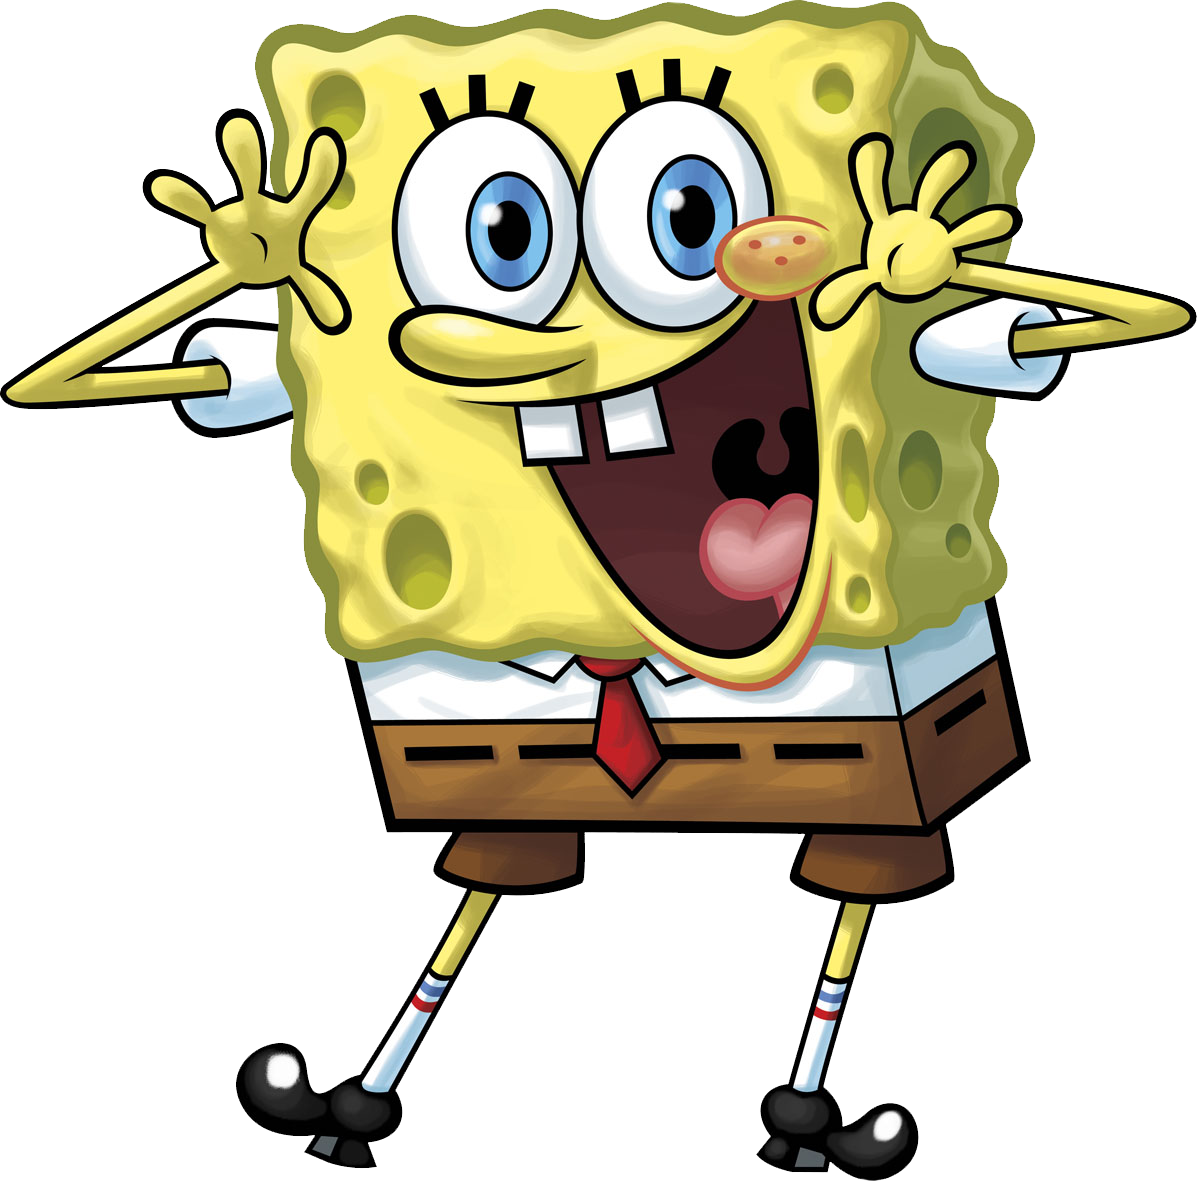
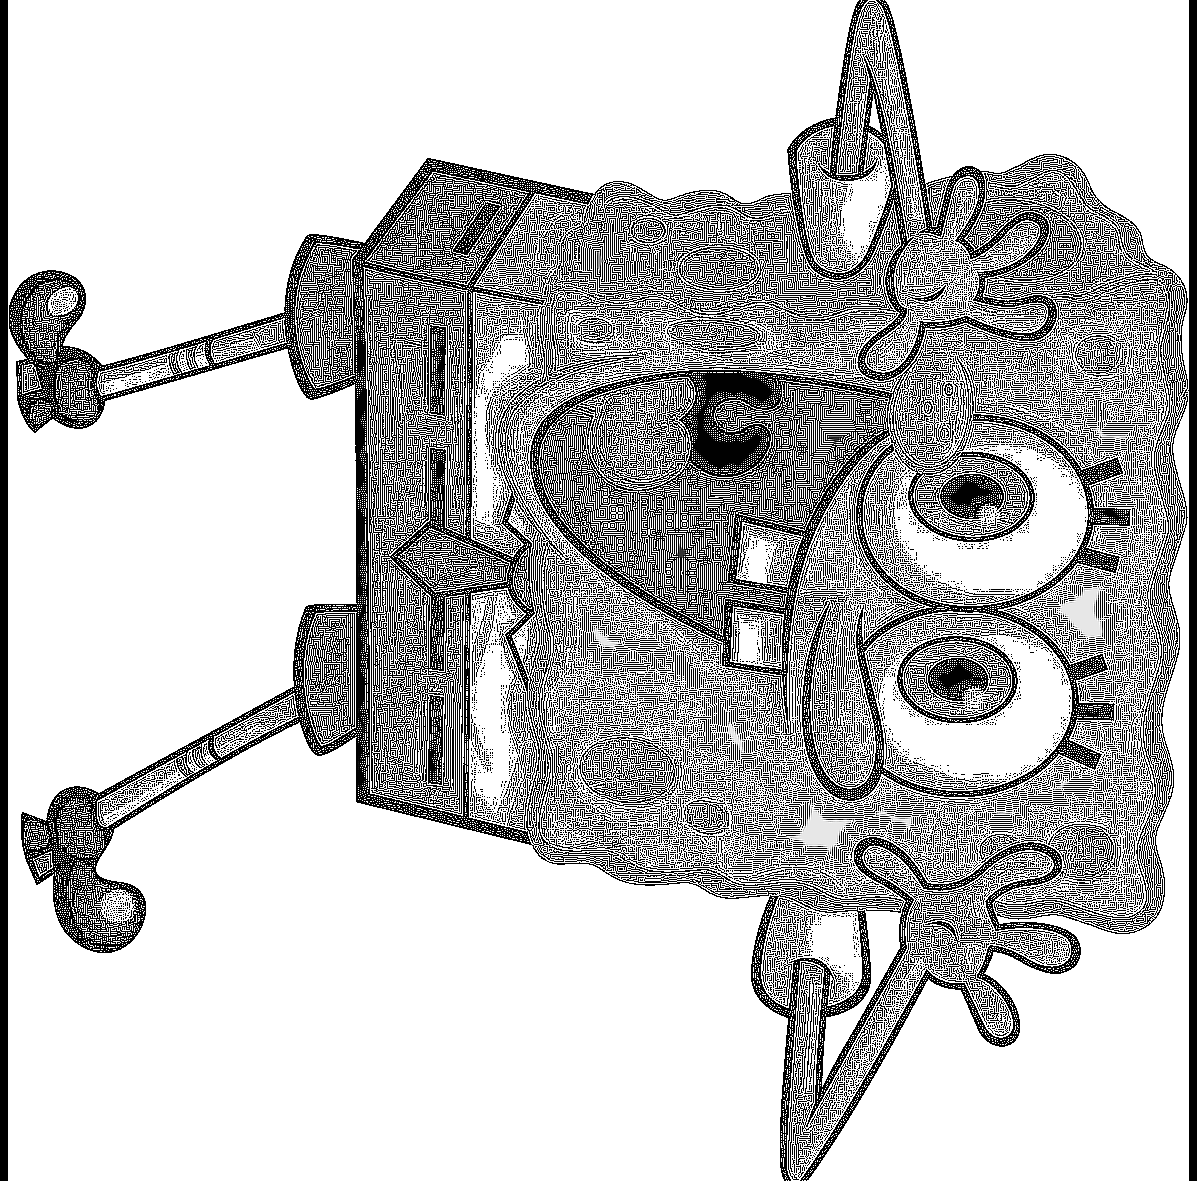
btns bw sharp

diff --git a/editor/main.py b/editor/main.py
@@ -1,12 +1,12 @@
 from PyQt5.QtCore import QEvent
-from PyQt5.QtWidgets import QApplication,QInputDialog
+from PyQt5.QtWidgets import QApplication,QInputDialog, QFileDialog
 from PyQt5.QtWidgets import QMainWindow
 from PyQt5.QtGui import QPixmap
 from ui import Ui_MainWindow
 from PIL import Image
 from PIL import ImageFilter
 from PIL import ImageEnhance
-
+import os
 
 
 
@@ -19,24 +19,66 @@ class Widget(QMainWindow):
         self.update_image()
         self.ui.btn_left.clicked.connect(self.rotate_left)
         self.ui.btn_right.clicked.connect(self.rotate_right)
+        self.ui.btn_bw.clicked.connect(self.bw_image)
+        self.ui.btn_flip.clicked.connect(self.flip_image)
+        self.ui.btn_sharp.clicked.connect(self.sharp_image)
+        self.ui.btn_dir.clicked.connect(self.showfiles)
+
 
     def update_image(self):
         self.ui.label.hide()
         self.image.save("Губка_БОБ_персонаж_copy.png")
-        pixmap = QPixmap("Губка_БОБ_персонаж.png")
+        pixmap = QPixmap("Губка_БОБ_персонаж_copy.png")
         w, h = self.ui.label.width(), self.ui.label.height()
         pixmap = pixmap.scaled(w, h)
         self.ui.label.setPixmap(pixmap)
         self.ui.label.show()
     
     def rotate_left(self):
-        self.image.rotate(90)
+        self.image = self.image.rotate(90)
         self.update_image()
     def rotate_right(self):
-        self.image.rotate(-90)
+        self.image = self.image.rotate(-90)
         self.update_image()
 
-        
+    def bw_image(self):
+        self.image = self.image.convert("L")
+        self.update_image()
+
+    def flip_image(self):
+        self.image = self.image.transpose(Image.FLIP_LEFT_RIGHT)
+        self.update_image()
+
+    def sharp_image(self):
+        self.image = self.image.filter(ImageFilter.SHARPEN)
+        self.update_image()
+
+    def chose_dir(self):
+        global workdir
+        workdir = QFileDialog.getExistingDirectory(self,"Виберіть папку")
+
+    def filter(self,files,ext):
+        res = []
+        for file in files:
+            for e in ext:
+                if file.endswith(e):
+                    res.append(file)
+        return res
+    
+    def showfiles(self):
+        ext = [".png",".jpg"]
+        self.chose_dir()
+        all_files = os.listdir()
+        print(all_files)
+        print("____________________________________________________")
+        filter_files = self.filter(all_files,ext)
+        print(filter_files)
+        self.ui.listWidget.clear()
+        for file in filter_files:
+            self.ui.listWidget.addItem(file)
+
+
+
 
 app = QApplication([])
 ex = Widget()

diff --git a/editor/ui.py b/editor/ui.py
@@ -14,7 +14,7 @@ from PyQt5 import QtCore, QtGui, QtWidgets
 class Ui_MainWindow(object):
     def setupUi(self, MainWindow):
         MainWindow.setObjectName("MainWindow")
-        MainWindow.resize(707, 584)
+        MainWindow.setFixedSize(707, 584)
         MainWindow.setStyleSheet("background-color: lightblue;\n"
 "")
         self.centralwidget = QtWidgets.QWidget(MainWindow)
